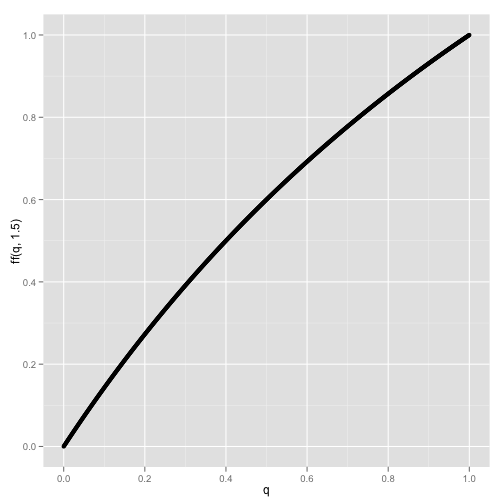
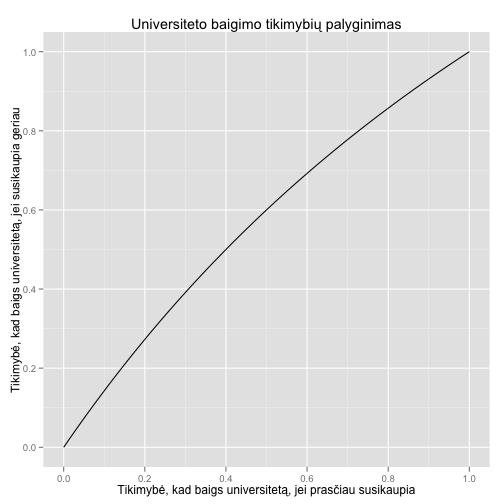
Lietuviškos raidės

diff --git a/2012-08-16-kodl-naujausias-tyrimas-nerodo-kad-js-vaikui-btinai-nesiseks/2012-08-16-kodl-naujausias-tyrimas-nerodo-kad-js-vaikui-btinai-nesiseks.md b/2012-08-16-kodl-naujausias-tyrimas-nerodo-kad-js-vaikui-btinai-nesiseks/2012-08-16-kodl-naujausias-tyrimas-nerodo-kad-js-vaikui-btinai-nesiseks.md
@@ -23,17 +23,228 @@ Taigi jeigu tavo vaikas nesugeba sukaupti dėmesio, apie universitetą svajok. T
 library(ggplot2)
 ff <- function(q, z) 1 - 1/(z * (q/(1 - q)) + 1)
 q <- seq(0, 1, by = 0.001)
-qplot(q, ff(q, 1.5))
+qplot(q, ff(q, 1.5), geom = "line", xlab = "Tikimybė, kad baigs universitetą, jei prasčiau susikaupia", 
+    ylab = "Tikimybė, kad baigs universitetą, jei susikaupia geriau") + opts(title = "Universiteto baigimo tikimybių palyginimas")
+```
+
+
+
+```
+## Warning message: erreur de conversion de 'Tikimybė, kad baigs universitetą, jei susikaupia geriau' dans 'mbcsToSbcs' : le point est substitué pour <c4>
+```
+
+
+
+```
+## Warning message: erreur de conversion de 'Tikimybė, kad baigs universitetą, jei susikaupia geriau' dans 'mbcsToSbcs' : le point est substitué pour <97>
+```
+
+
+
+```
+## Warning message: erreur de conversion de 'Tikimybė, kad baigs universitetą, jei susikaupia geriau' dans 'mbcsToSbcs' : le point est substitué pour <c4>
+```
+
+
+
+```
+## Warning message: erreur de conversion de 'Tikimybė, kad baigs universitetą, jei susikaupia geriau' dans 'mbcsToSbcs' : le point est substitué pour <85>
+```
+
+
+
+```
+## Warning message: erreur de conversion de 'Universiteto baigimo tikimybių palyginimas' dans 'mbcsToSbcs' : le point est substitué pour <c5>
+```
+
+
+
+```
+## Warning message: erreur de conversion de 'Universiteto baigimo tikimybių palyginimas' dans 'mbcsToSbcs' : le point est substitué pour <b3>
+```
+
+
+
+```
+## Warning message: erreur de conversion de 'Tikimybė, kad baigs universitetą, jei prasčiau susikaupia' dans 'mbcsToSbcs' : le point est substitué pour <c4>
+```
+
+
+
+```
+## Warning message: erreur de conversion de 'Tikimybė, kad baigs universitetą, jei prasčiau susikaupia' dans 'mbcsToSbcs' : le point est substitué pour <97>
+```
+
+
+
+```
+## Warning message: erreur de conversion de 'Tikimybė, kad baigs universitetą, jei prasčiau susikaupia' dans 'mbcsToSbcs' : le point est substitué pour <c4>
+```
+
+
+
+```
+## Warning message: erreur de conversion de 'Tikimybė, kad baigs universitetą, jei prasčiau susikaupia' dans 'mbcsToSbcs' : le point est substitué pour <85>
+```
+
+
+
+```
+## Warning message: erreur de conversion de 'Tikimybė, kad baigs universitetą, jei prasčiau susikaupia' dans 'mbcsToSbcs' : le point est substitué pour <c4>
+```
+
+
+
+```
+## Warning message: erreur de conversion de 'Tikimybė, kad baigs universitetą, jei prasčiau susikaupia' dans 'mbcsToSbcs' : le point est substitué pour <8d>
+```
+
+
+
+```
+## Warning message: erreur de conversion de 'Tikimybė, kad baigs universitetą, jei susikaupia geriau' dans 'mbcsToSbcs' : le point est substitué pour <c4>
+```
+
+
+
+```
+## Warning message: erreur de conversion de 'Tikimybė, kad baigs universitetą, jei susikaupia geriau' dans 'mbcsToSbcs' : le point est substitué pour <97>
+```
+
+
+
+```
+## Warning message: erreur de conversion de 'Tikimybė, kad baigs universitetą, jei susikaupia geriau' dans 'mbcsToSbcs' : le point est substitué pour <c4>
+```
+
+
+
+```
+## Warning message: erreur de conversion de 'Tikimybė, kad baigs universitetą, jei susikaupia geriau' dans 'mbcsToSbcs' : le point est substitué pour <85>
+```
+
+
+
+```
+## Warning message: erreur de conversion de 'Universiteto baigimo tikimybių palyginimas' dans 'mbcsToSbcs' : le point est substitué pour <c5>
+```
+
+
+
+```
+## Warning message: erreur de conversion de 'Universiteto baigimo tikimybių palyginimas' dans 'mbcsToSbcs' : le point est substitué pour <b3>
+```
+
+
+
+```
+## Warning message: erreur de conversion de 'Tikimybė, kad baigs universitetą, jei prasčiau susikaupia' dans 'mbcsToSbcs' : le point est substitué pour <c4>
+```
+
+
+
+```
+## Warning message: erreur de conversion de 'Tikimybė, kad baigs universitetą, jei prasčiau susikaupia' dans 'mbcsToSbcs' : le point est substitué pour <97>
+```
+
+
+
+```
+## Warning message: erreur de conversion de 'Tikimybė, kad baigs universitetą, jei prasčiau susikaupia' dans 'mbcsToSbcs' : le point est substitué pour <c4>
+```
+
+
+
+```
+## Warning message: erreur de conversion de 'Tikimybė, kad baigs universitetą, jei prasčiau susikaupia' dans 'mbcsToSbcs' : le point est substitué pour <85>
+```
+
+
+
+```
+## Warning message: erreur de conversion de 'Tikimybė, kad baigs universitetą, jei prasčiau susikaupia' dans 'mbcsToSbcs' : le point est substitué pour <c4>
+```
+
+
+
+```
+## Warning message: erreur de conversion de 'Tikimybė, kad baigs universitetą, jei prasčiau susikaupia' dans 'mbcsToSbcs' : le point est substitué pour <8d>
+```
+
+
+
+```
+## Warning message: erreur de conversion de 'Universiteto baigimo tikimybių palyginimas' dans 'mbcsToSbcs' : le point est substitué pour <c5>
+```
+
+
+
+```
+## Warning message: erreur de conversion de 'Universiteto baigimo tikimybių palyginimas' dans 'mbcsToSbcs' : le point est substitué pour <b3>
+```
+
+
+
+```
+## Warning message: erreur de conversion de 'Tikimybė, kad baigs universitetą, jei prasčiau susikaupia' dans 'mbcsToSbcs' : le point est substitué pour <c4>
+```
+
+
+
+```
+## Warning message: erreur de conversion de 'Tikimybė, kad baigs universitetą, jei prasčiau susikaupia' dans 'mbcsToSbcs' : le point est substitué pour <97>
+```
+
+
+
+```
+## Warning message: erreur de conversion de 'Tikimybė, kad baigs universitetą, jei prasčiau susikaupia' dans 'mbcsToSbcs' : le point est substitué pour <c4>
+```
+
+
+
+```
+## Warning message: erreur de conversion de 'Tikimybė, kad baigs universitetą, jei prasčiau susikaupia' dans 'mbcsToSbcs' : le point est substitué pour <85>
+```
+
+
+
+```
+## Warning message: erreur de conversion de 'Tikimybė, kad baigs universitetą, jei prasčiau susikaupia' dans 'mbcsToSbcs' : le point est substitué pour <c4>
+```
+
+
+
+```
+## Warning message: erreur de conversion de 'Tikimybė, kad baigs universitetą, jei prasčiau susikaupia' dans 'mbcsToSbcs' : le point est substitué pour <8d>
+```
+
+
+
+```
+## Warning message: erreur de conversion de 'Tikimybė, kad baigs universitetą, jei susikaupia geriau' dans 'mbcsToSbcs' : le point est substitué pour <c4>
+```
+
+
+
+```
+## Warning message: erreur de conversion de 'Tikimybė, kad baigs universitetą, jei susikaupia geriau' dans 'mbcsToSbcs' : le point est substitué pour <97>
+```
+
+
+
+```
+## Warning message: erreur de conversion de 'Tikimybė, kad baigs universitetą, jei susikaupia geriau' dans 'mbcsToSbcs' : le point est substitué pour <c4>
+```
+
+
+
+```
+## Warning message: erreur de conversion de 'Tikimybė, kad baigs universitetą, jei susikaupia geriau' dans 'mbcsToSbcs' : le point est substitué pour <85>
 ```
 
 ![plot of chunk unnamed-chunk-1](https://github.com/mpiktas/myliuduomenis.lt/raw/master/2012-08-16-kodl-naujausias-tyrimas-nerodo-kad-js-vaikui-btinai-nesiseks/figure/unnamed-chunk-1.png) 
 
-
-
-tikimybės vaikui baigti universitetą, kai jis geriau sukaupia dėmesį palyginus su tuo, kuris dėmesį sukaupia geriau, bei kai pastarojo šansai yra 50% didesni:
-
-
-Tarkime kad vaikas prasčiau sukaupia dėmesį vaikystėje. Galime preziumuoti kad dalis tokių vaikų vis tiek pabaigs universitetą, dėl įvairių priežasčių: tėvai pasistengs ir t.t. 
 
 
 
